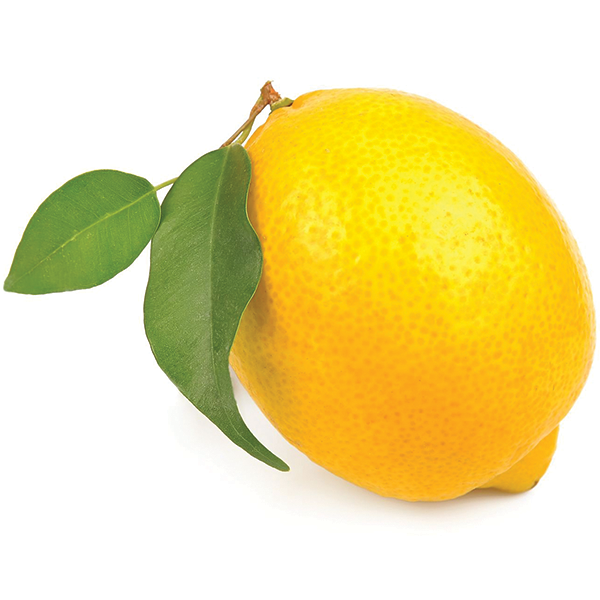
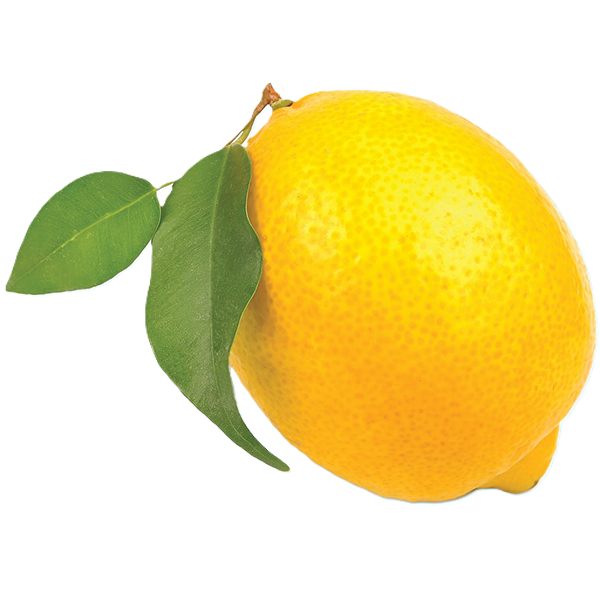
Changed lemons

diff --git a/Homework 5/js/sketch.js b/Homework 5/js/sketch.js
@@ -1,19 +1,19 @@
-var numberOfLemons = 8;
+var numberOfLemons = 10;
 var lemonX = [];
 var lemonY = [];
 var lemonSize = [];
 var lemonImg;
 
 function preload() {
-    lemonImg = loadImg("images/lemon.png");
+    lemonImg = loadImage("images/lemon.png");
 }
 
 function setup() {
-    createCanvas(600, 400);
+    createCanvas(700, 500);
 
     for (var i = 0; i < numberOfLemons; i++) {
-        lemonX[i] = random(60, width - 60);
-        lemonY[i] = random(100, height - 80);
+        lemonX[i] = random(60, width - 70);
+        lemonY[i] = random(100, height - 70);
         lemonSize[i] = random(60, 85);
      }
 }
@@ -24,7 +24,7 @@ function draw() {
     for (var i = 0; i < numberOfLemons; i++) {
         var animatedY = lemonY[i] + sin(frameCount * 0.05 + i) * 12;
 
-        imageMode(Center);
+        imageMode(CENTER);
         image(lemonImg, lemonX[i], animatedY, lemonSize[i], lemonSize[i]);
     }
 }
